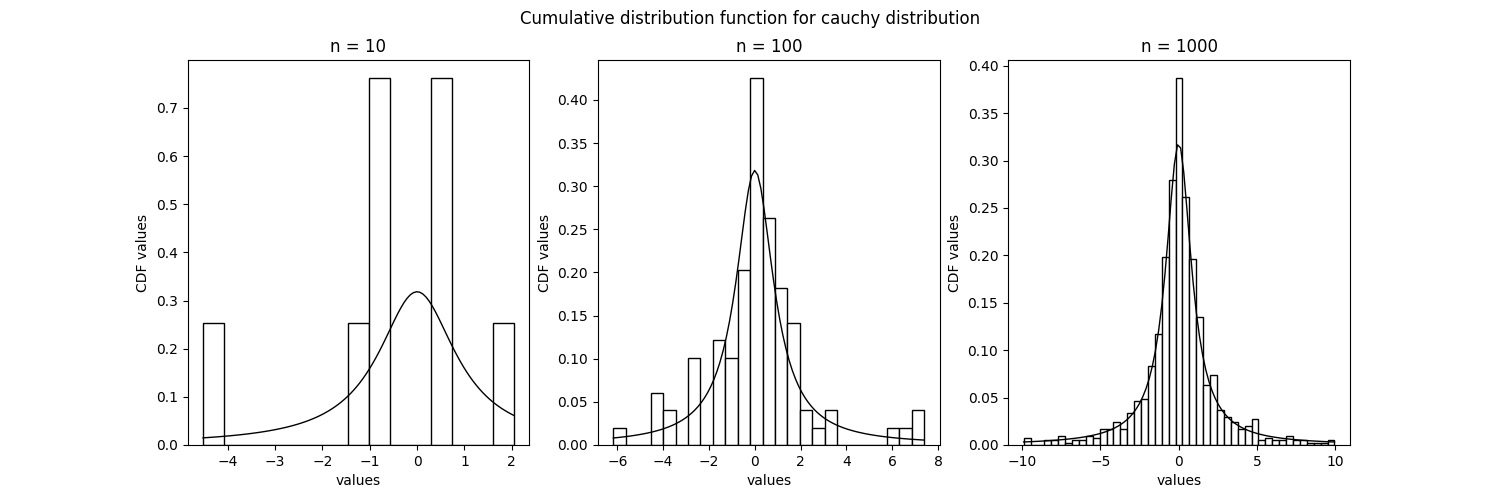
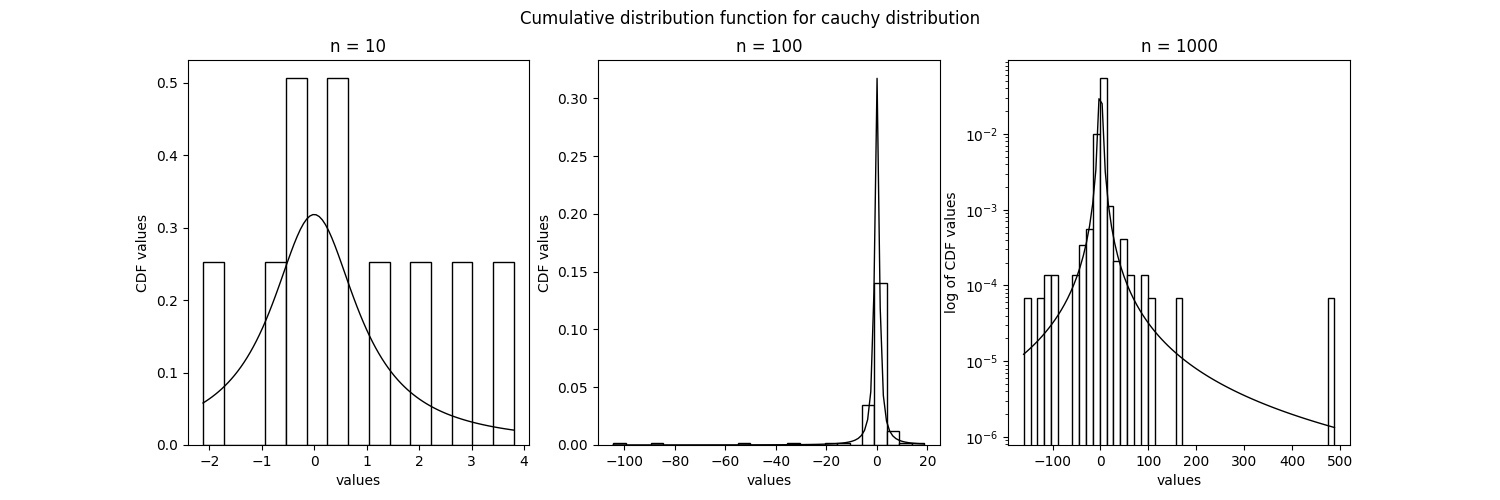
remove restrictions for cauchy and student's distributions

diff --git a/lab1/graphics.py b/lab1/graphics.py
@@ -29,8 +29,8 @@ def print_graphics(N: list) -> None:
 
     samples = [
         sample_normal,
-        [sample_cauchy[i][(np.abs(sample_cauchy[i]) <= 10)] for i in range(len(N))],  # to avoid outliers
-        [sample_student[i][(np.abs(sample_student[i]) <= 10)] for i in range(len(N))],  # to avoid outliers
+        sample_cauchy,
+        sample_student,
         sample_poisson,
         sample_uniform
     ]
@@ -76,4 +76,8 @@ def print_graphics(N: list) -> None:
             plt.title(f'n = {N[i]}')
             plt.xlabel('values')
             plt.ylabel('CDF values')
+            plt.yscale('linear')
+            if N[i] > 500 and names[j] == 'cauchy':
+                plt.yscale('log')
+                plt.ylabel('log of CDF values')
         plt.show()
